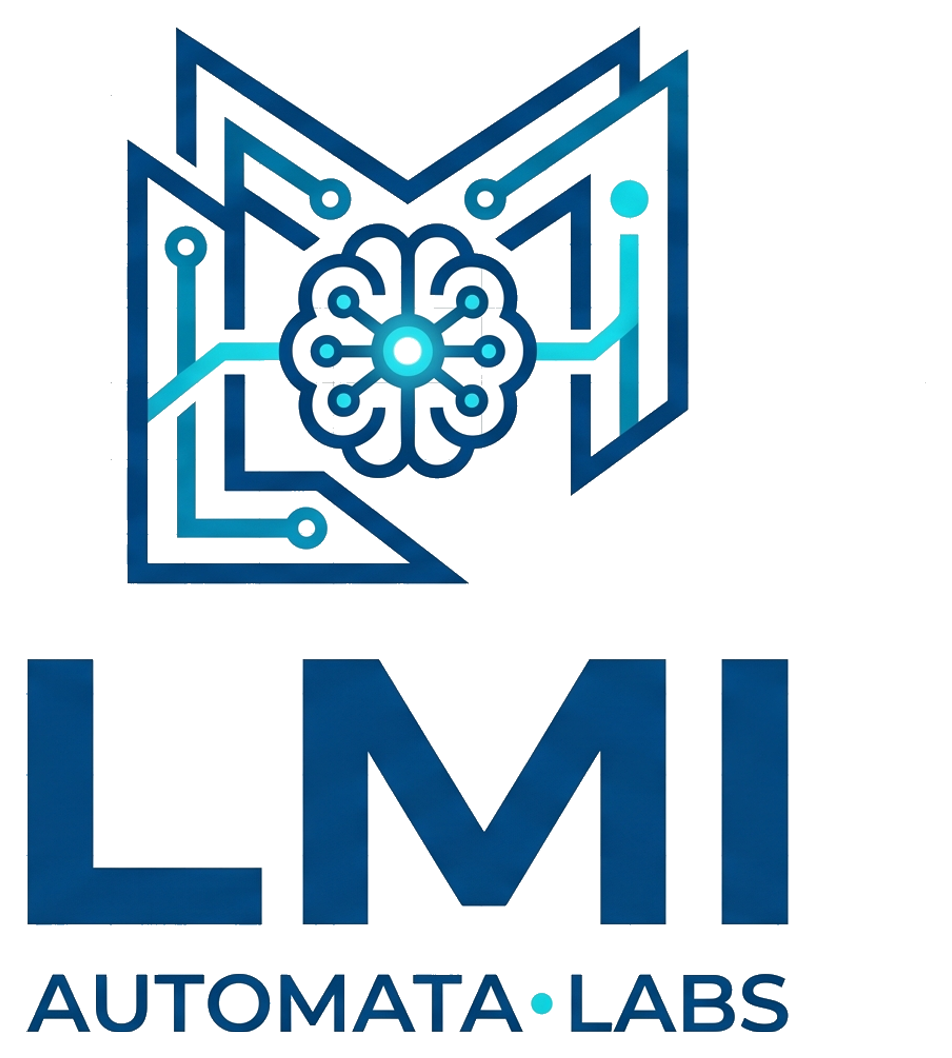
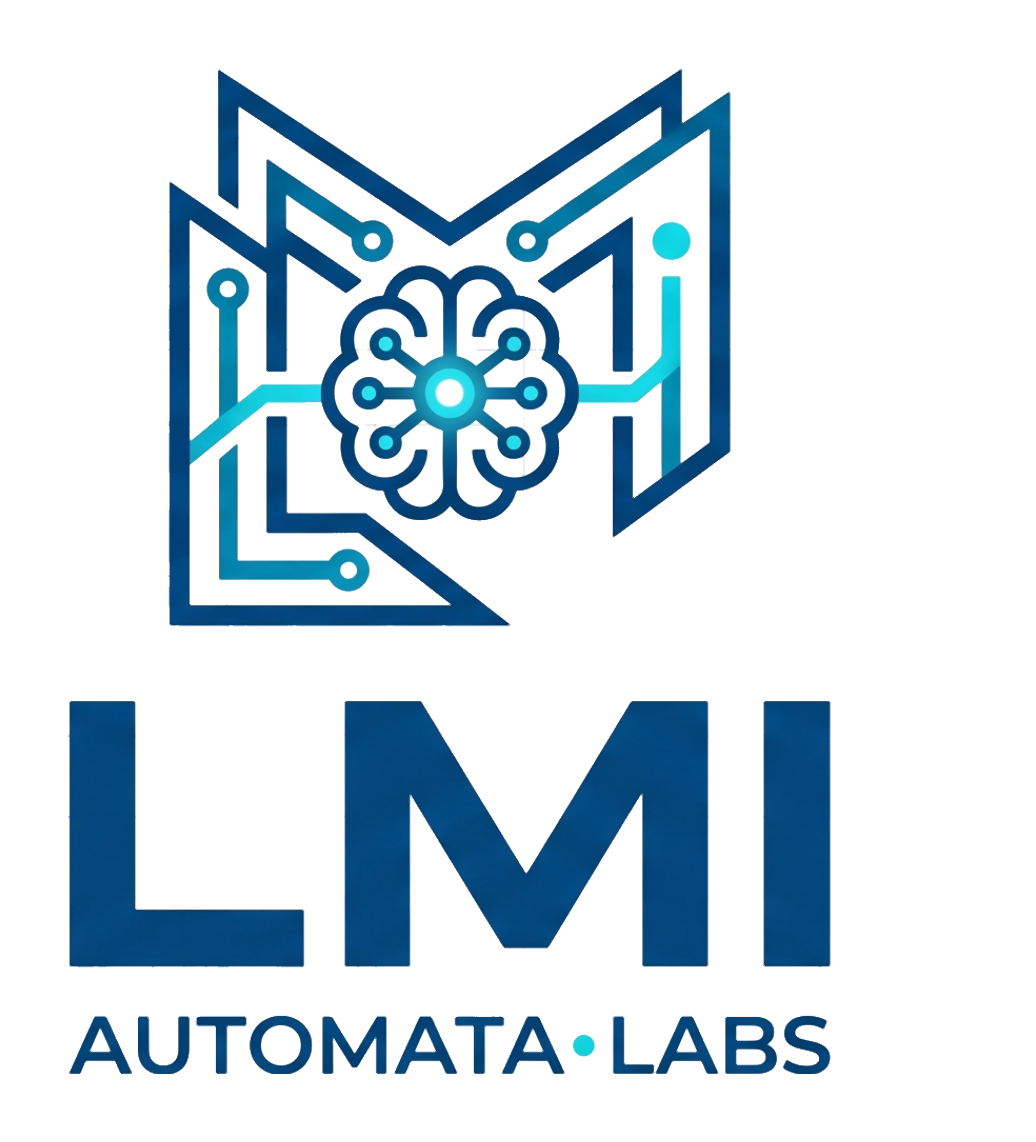
Lead with automation, and fix how the mark is cropped
Headline is now "Automate your business." — the studio sells automation,
and "Software your business…" buried that. Page title and description
follow, as does the share card.

Three real faults in how the logo was being prepared:

The mark is landscape (775x530), and squaring it wasted ~40% of the
height, so the artwork rendered small and weak inside its header chip.
There is now a natural-aspect variant for the header and footer; the
square ones are kept only for the favicon and touch icon, which must be
square.

It was centred on its bounding box, which is not the same as centring the
artwork — this mark's weight sits low and left because of the descending
diagonal. It now aligns on the ink's centre of mass, which moved it 33px
right and 9px up, and is what "not centered" was picking up on.

Flat navy areas were mottled with JPEG ringing, most visible once scaled
to favicon size. A median pass before the downscale clears it without
softening the strokes.

Also dropped a scratch file that should never have been committed, and
gitignored the directory it came from.

Changed region(s): [[0.1218, 0.0312, 0.7311, 0.5614], [0.0305, 0.5926, 0.8529, 0.9981], [0.3351, 0.5926, 0.4265, 0.655]]

diff --git a/scripts/og-card.html b/scripts/og-card.html
@@ -88,7 +88,7 @@
   </div>
 
   <div class="mid">
-    <h1>Software your business can actually run&nbsp;<em>on</em>.</h1>
+    <h1>Automate your&nbsp;<em>business</em>.</h1>
   </div>
 
   <div class="bottom">
